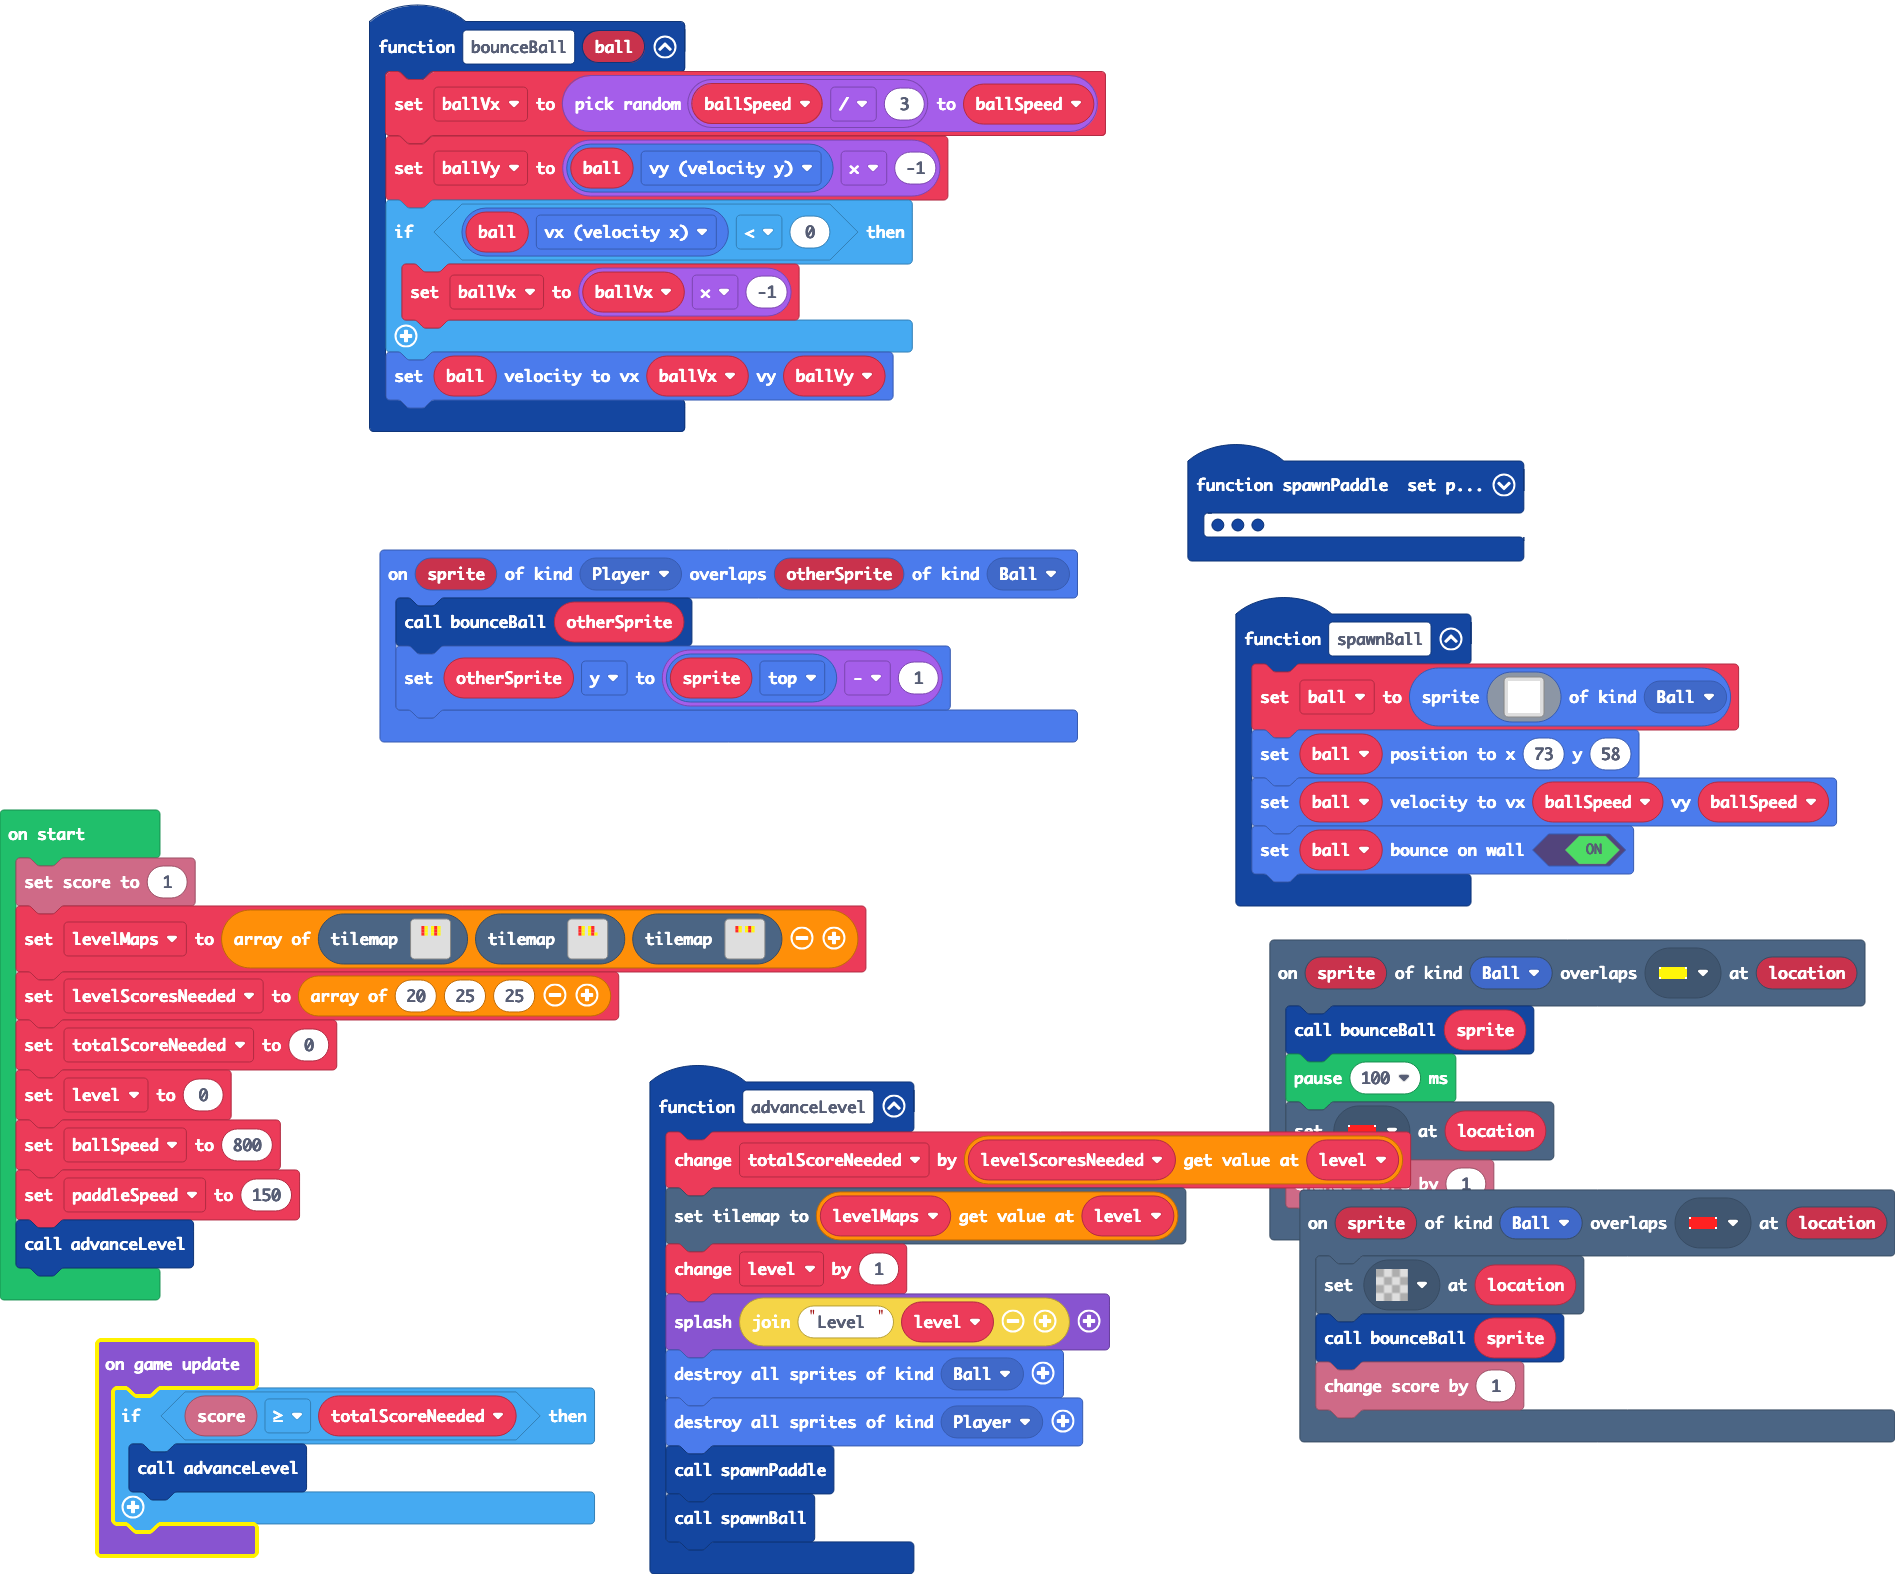
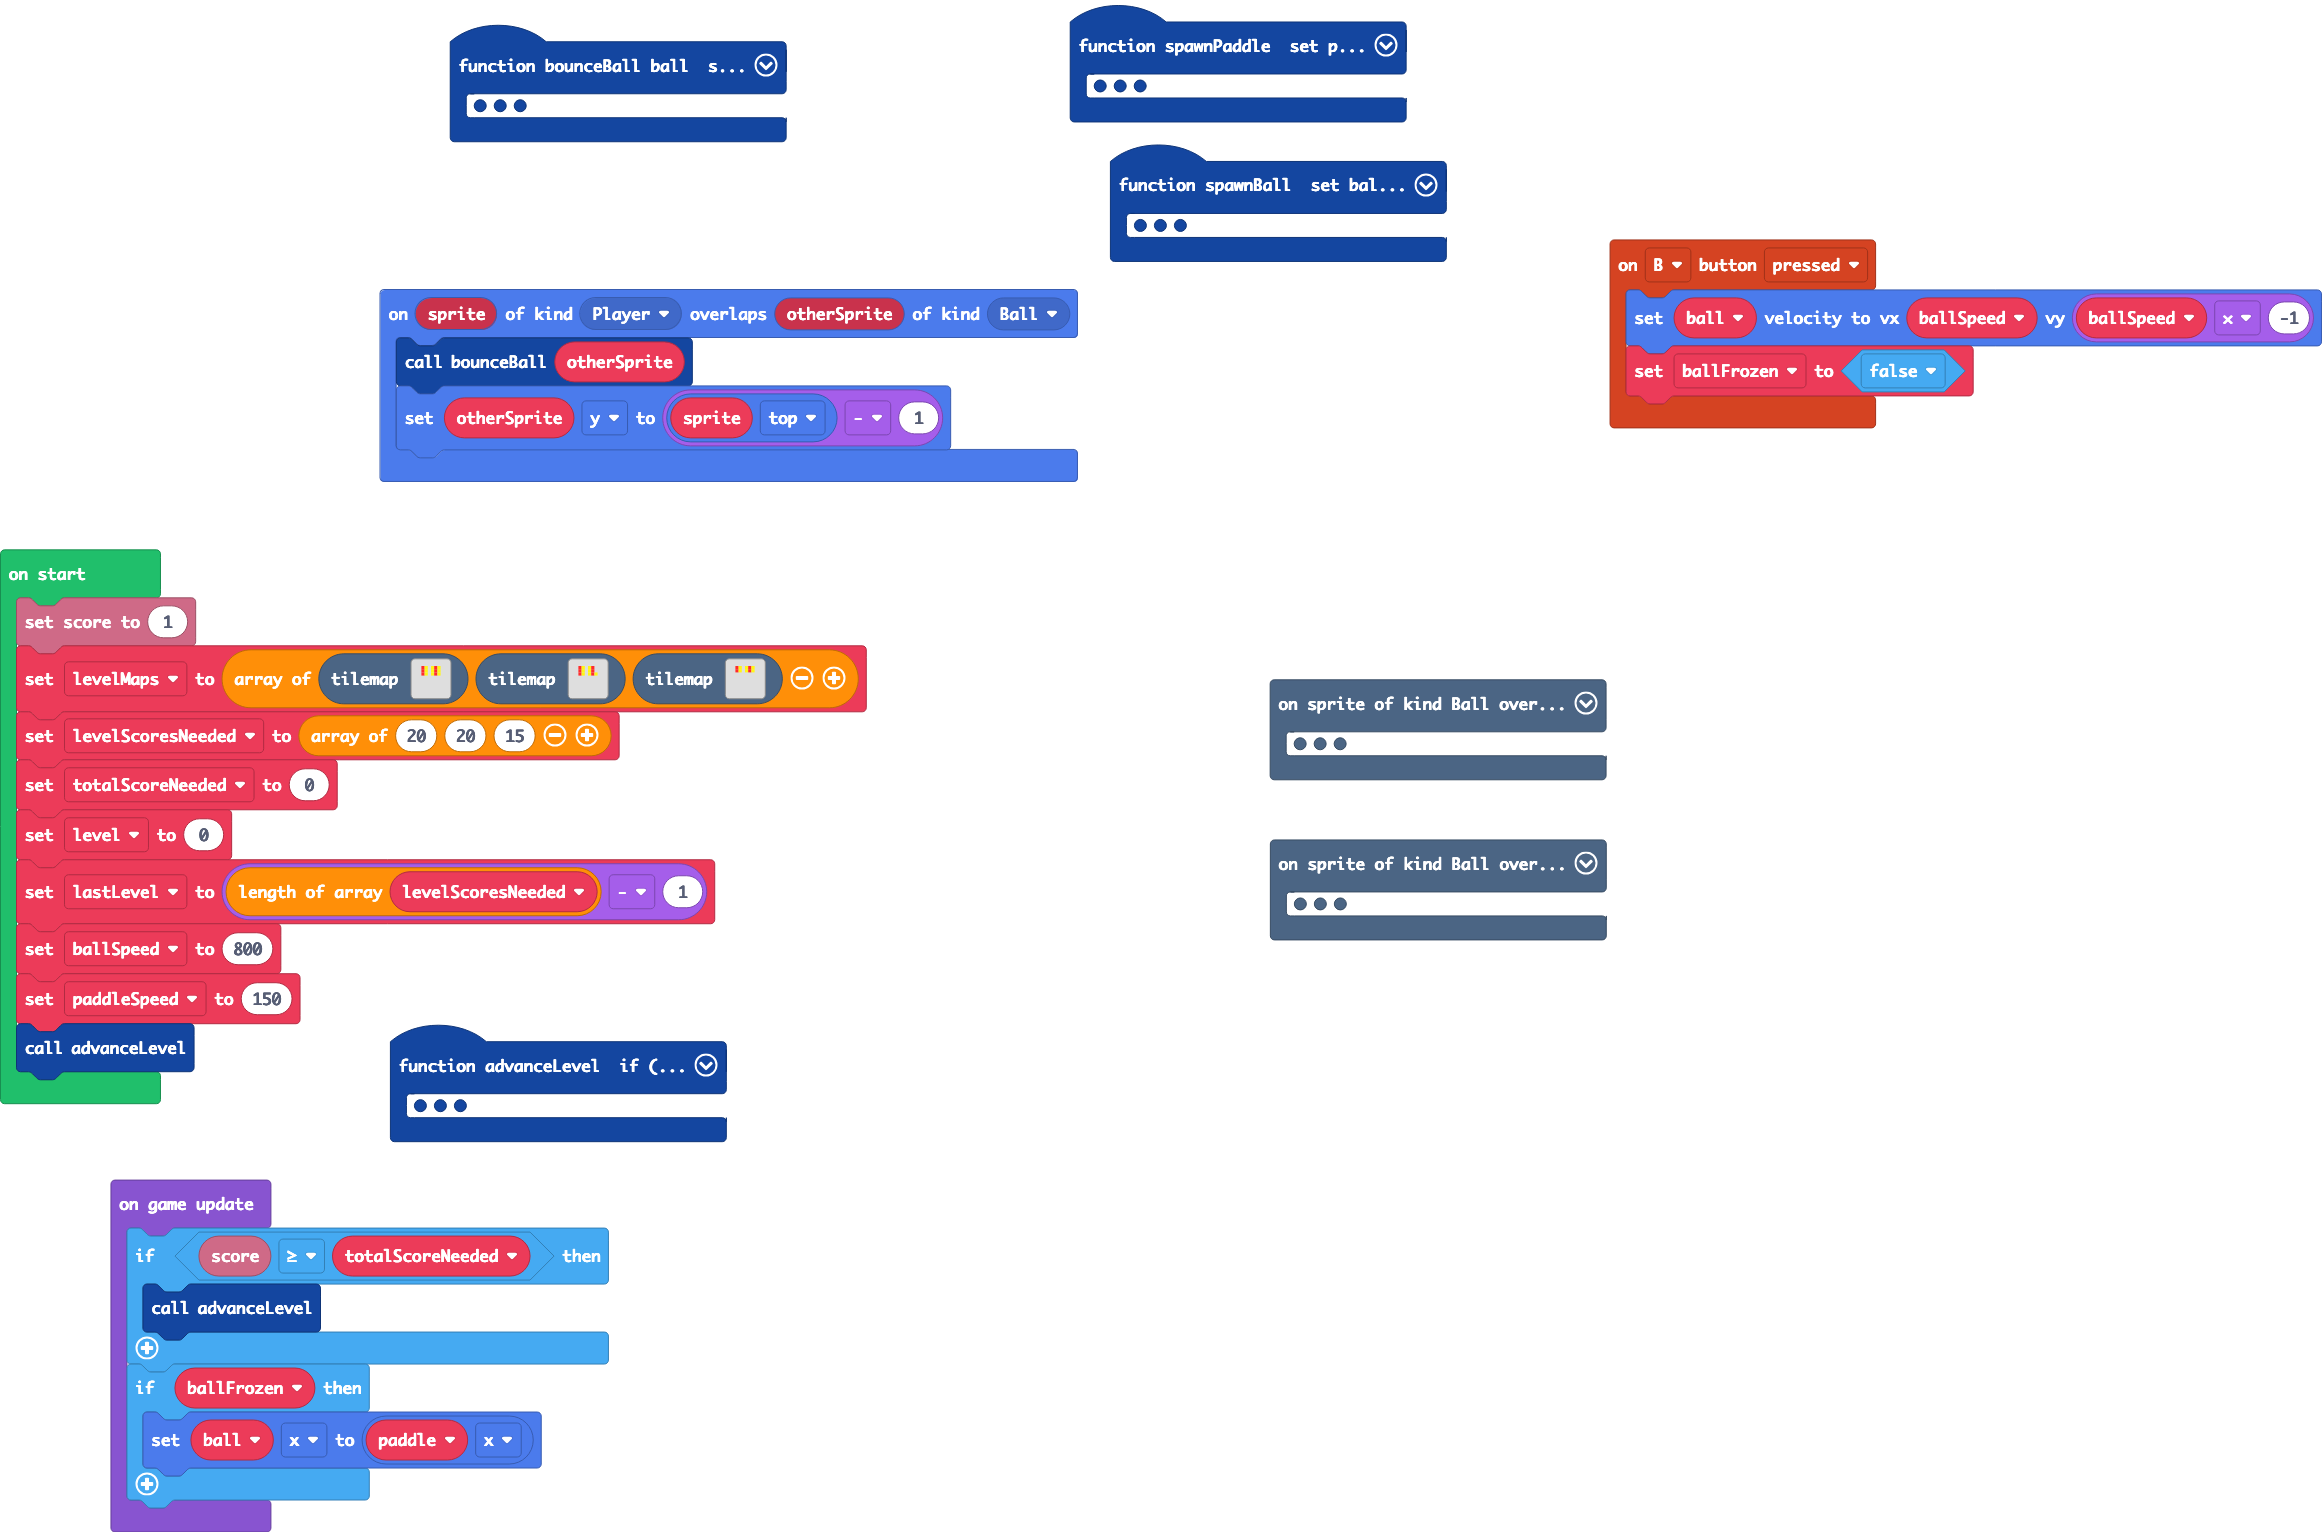
added ball on paddle before launch

diff --git a/main.ts b/main.ts
@@ -2,18 +2,26 @@ namespace SpriteKind {
     export const Ball = SpriteKind.create()
 }
 function advanceLevel () {
-    totalScoreNeeded += levelScoresNeeded[level]
-    tiles.setCurrentTilemap(levelMaps[level])
-    level += 1
-    game.splash("Level " + level)
-    sprites.destroyAllSpritesOfKind(SpriteKind.Ball)
-    sprites.destroyAllSpritesOfKind(SpriteKind.Player)
-    spawnPaddle()
-    spawnBall()
+    if (level > lastLevel) {
+        game.gameOver(true)
+    } else {
+        totalScoreNeeded += levelScoresNeeded[level]
+        tiles.setCurrentTilemap(levelMaps[level])
+        level += 1
+        game.splash("Level " + level)
+        sprites.destroyAllSpritesOfKind(SpriteKind.Ball)
+        sprites.destroyAllSpritesOfKind(SpriteKind.Player)
+        spawnPaddle()
+        spawnBall()
+    }
 }
 sprites.onOverlap(SpriteKind.Player, SpriteKind.Ball, function (sprite, otherSprite) {
     bounceBall(otherSprite)
     otherSprite.y = sprite.top - 1
+})
+controller.B.onEvent(ControllerButtonEvent.Pressed, function () {
+    ball.setVelocity(ballSpeed, ballSpeed * -1)
+    ballFrozen = false
 })
 function spawnBall () {
     ball = sprites.create(img`
@@ -22,9 +30,9 @@ function spawnBall () {
         1 1 1 1 
         1 1 1 1 
         `, SpriteKind.Ball)
-    ball.setPosition(73, 58)
-    ball.setVelocity(ballSpeed, ballSpeed)
     ball.setBounceOnWall(true)
+    ball.setPosition(paddle.x, paddle.top - 2)
+    ballFrozen = true
 }
 function bounceBall (ball: Sprite) {
     ballVx = randint(ballSpeed / 3, ballSpeed)
@@ -34,6 +42,11 @@ function bounceBall (ball: Sprite) {
     }
     ball.setVelocity(ballVx, ballVy)
 }
+scene.onOverlapTile(SpriteKind.Ball, assets.tile`myTile0`, function (sprite, location) {
+    tiles.setTileAt(location, assets.tile`transparency16`)
+    bounceBall(sprite)
+    info.changeScoreBy(1)
+})
 scene.onOverlapTile(SpriteKind.Ball, assets.tile`myTile1`, function (sprite, location) {
     bounceBall(sprite)
     pause(100)
@@ -41,43 +54,36 @@ scene.onOverlapTile(SpriteKind.Ball, assets.tile`myTile1`, function (sprite, loc
     info.changeScoreBy(1)
 })
 function spawnPaddle () {
-    paddle = sprites.create(img`
-        ffffffffffffffffffffffffffffffffffffffffffffffffffffffffffffffffffffffffffffffffffffffffffffffffffffffffffffffffffffffffffffffffffffffffffffffffffffffffffffffff
-        ffffffffffffffffffffffffffffffffffffffffffffffffffffffffffffffffffffffffffffffffffffffffffffffffffffffffffffffffffffffffffffffffffffffffffffffffffffffffffffffff
-        9999999999999999999999999999999999999999999999999999999999999999999999999999999999999999999999999999999999999999999999999999999999999999999999999999999999999999
-        9999999999999999999999999999999999999999999999999999999999999999999999999999999999999999999999999999999999999999999999999999999999999999999999999999999999999999
-        9999999999999999999999999999999999999999999999999999999999999999999999999999999999999999999999999999999999999999999999999999999999999999999999999999999999999999
-        ffffffffffffffffffffffffffffffffffffffffffffffffffffffffffffffffffffffffffffffffffffffffffffffffffffffffffffffffffffffffffffffffffffffffffffffffffffffffffffffff
-        ffffffffffffffffffffffffffffffffffffffffffffffffffffffffffffffffffffffffffffffffffffffffffffffffffffffffffffffffffffffffffffffffffffffffffffffffffffffffffffffff
-        `, SpriteKind.Player)
+    paddle = sprites.create(assets.image`normal paddle`, SpriteKind.Player)
     paddle.setPosition(80, 107)
     controller.moveSprite(paddle, paddleSpeed, 0)
     paddle.setStayInScreen(true)
 }
-scene.onOverlapTile(SpriteKind.Ball, assets.tile`myTile0`, function (sprite, location) {
-    tiles.setTileAt(location, assets.tile`transparency16`)
-    bounceBall(sprite)
-    info.changeScoreBy(1)
-})
-let paddle: Sprite = null
 let ballVy = 0
 let ballVx = 0
+let paddle: Sprite = null
+let ballFrozen = false
 let ball: Sprite = null
 let paddleSpeed = 0
 let ballSpeed = 0
+let lastLevel = 0
 let level = 0
 let levelScoresNeeded: number[] = []
 let levelMaps: tiles.TileMapData[] = []
 info.setScore(1)
 levelMaps = [tilemap`level2`, tilemap`level0`, tilemap`level9`]
-levelScoresNeeded = [20, 25, 25]
+levelScoresNeeded = [20, 20, 15]
 let totalScoreNeeded = 0
 level = 0
+lastLevel = levelScoresNeeded.length - 1
 ballSpeed = 800
 paddleSpeed = 150
 advanceLevel()
 game.onUpdate(function () {
     if (info.score() >= totalScoreNeeded) {
         advanceLevel()
+    }
+    if (ballFrozen) {
+        ball.x = paddle.x
     }
 })

diff --git a/images.g.ts b/images.g.ts
@@ -1,0 +1,45 @@
+// Auto-generated code. Do not edit.
+namespace myImages {
+
+    helpers._registerFactory("image", function(name: string) {
+        switch(helpers.stringTrim(name)) {
+            case "muNQmWQ4)(yLD8VSXTQ}":
+            case "giant paddle":return img`
+ffffffffffffffffffffffffffffffffffffffffffffffffffffffffffffffffffffffffffffffffffffffffffffffffffffffffffffffffffffffffffffffffffffffffffffffffffffffffffffffff
+ffffffffffffffffffffffffffffffffffffffffffffffffffffffffffffffffffffffffffffffffffffffffffffffffffffffffffffffffffffffffffffffffffffffffffffffffffffffffffffffff
+9999999999999999999999999999999999999999999999999999999999999999999999999999999999999999999999999999999999999999999999999999999999999999999999999999999999999999
+9999999999999999999999999999999999999999999999999999999999999999999999999999999999999999999999999999999999999999999999999999999999999999999999999999999999999999
+9999999999999999999999999999999999999999999999999999999999999999999999999999999999999999999999999999999999999999999999999999999999999999999999999999999999999999
+ffffffffffffffffffffffffffffffffffffffffffffffffffffffffffffffffffffffffffffffffffffffffffffffffffffffffffffffffffffffffffffffffffffffffffffffffffffffffffffffff
+ffffffffffffffffffffffffffffffffffffffffffffffffffffffffffffffffffffffffffffffffffffffffffffffffffffffffffffffffffffffffffffffffffffffffffffffffffffffffffffffff
+`;
+            case "image1":
+            case "normal paddle":return img`
+f f f f f f f f f f f f f f f f f f f f 
+f f f f f f f f f f f f f f f f f f f f 
+9 9 9 9 9 9 9 9 9 9 9 9 9 9 9 9 9 9 9 9 
+9 9 9 9 9 9 9 9 9 9 9 9 9 9 9 9 9 9 9 9 
+9 9 9 9 9 9 9 9 9 9 9 9 9 9 9 9 9 9 9 9 
+f f f f f f f f f f f f f f f f f f f f 
+f f f f f f f f f f f f f f f f f f f f 
+`;
+        }
+        return null;
+    })
+
+    helpers._registerFactory("animation", function(name: string) {
+        switch(helpers.stringTrim(name)) {
+
+        }
+        return null;
+    })
+
+    helpers._registerFactory("song", function(name: string) {
+        switch(helpers.stringTrim(name)) {
+
+        }
+        return null;
+    })
+
+}
+// Auto-generated code. Do not edit.
